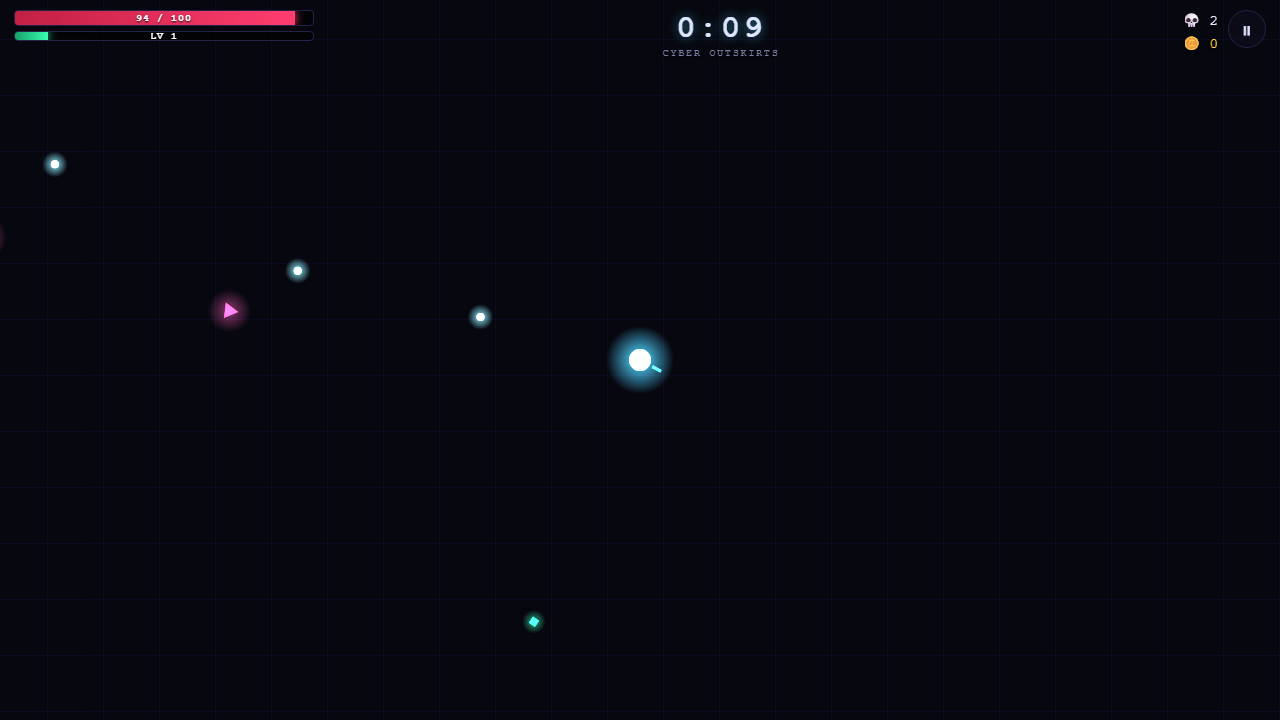
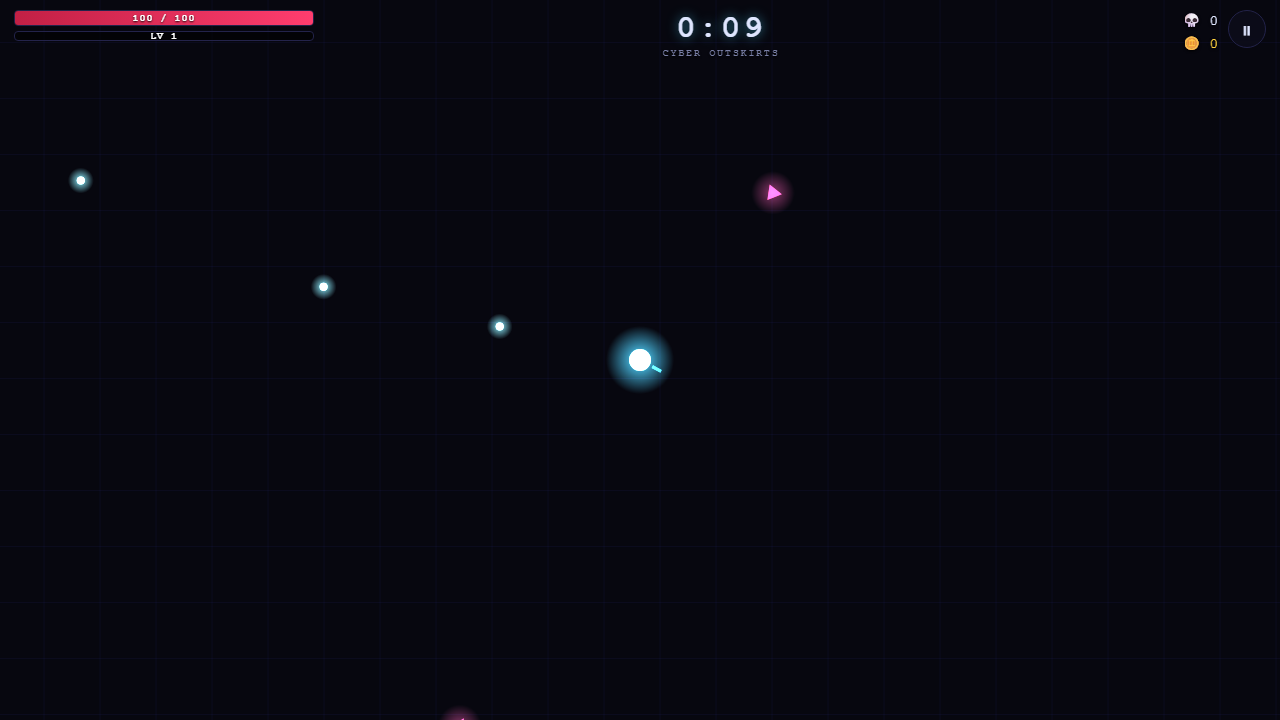
Make XP gems auto-magnet to the player like coins
Gems previously only pulled in once the player got within the magnet
radius; now, like coins, they home unconditionally from the moment
they drop. To keep the Gem Magnet upgrade meaningful, its stat now
scales *pull strength* instead of gating a range check -- a maxed
magnet build makes gems snap in almost instantly. Net effect: players
never have to detour for pickups, just dodge enemies while XP and
coins fly in on their own.

diff --git a/src/game/entities/gem.ts b/src/game/entities/gem.ts
@@ -1,6 +1,8 @@
-// XP gems and coins. Gems magnet toward the player inside the pickup radius
-// (governed by the Gem Magnet upgrade); coins always home straight to the
-// player from the moment they drop — no manual collection needed. Leveling
+// XP gems and coins both home straight to the player from the moment they
+// drop — no manual collection, just dodge enemies and let the rewards come
+// to you. Coins home at a fixed strength; gems scale with the player's
+// magnet stat, so the Gem Magnet upgrade still matters — it no longer just
+// extends pickup range, it makes gems fly in dramatically faster. Leveling
 // itself is resolved by the loop (it pauses the sim for the picker).
 
 import { sfx } from '../audio'
@@ -9,10 +11,12 @@ import { PALETTE } from '../config'
 import type { GameState } from '../types'
 
 const PICKUP_DIST = 18
-const MAGNET_ACCEL = 1400
 const GEM_CAP = 400
 const COIN_HOMING_ACCEL = 900
 const COIN_MIN_SPEED = 260
+// gem pull scales with the player's magnet stat (base 70 -> ~630 accel / ~180 min speed)
+const GEM_ACCEL_PER_MAGNET = 9
+const GEM_MIN_SPEED_PER_MAGNET = 2.6
 
 export function dropGem(state: GameState, x: number, y: number, value: number) {
   // merge into fewer, bigger gems if the field is saturated (perf guard)
@@ -60,22 +64,15 @@ export function updateGems(state: GameState, dt: number) {
     const nx = dx / dist
     const ny = dy / dist
 
-    if (g.isCoin) {
-      // coins always home to the player, regardless of range
-      g.vx += nx * COIN_HOMING_ACCEL * dt
-      g.vy += ny * COIN_HOMING_ACCEL * dt
-      const speed = Math.hypot(g.vx, g.vy)
-      if (speed < COIN_MIN_SPEED) {
-        g.vx = nx * COIN_MIN_SPEED
-        g.vy = ny * COIN_MIN_SPEED
-      }
-    } else if (dist < p.magnet) {
-      const pull = MAGNET_ACCEL * (1 - dist / p.magnet) + 200
-      g.vx += nx * pull * dt
-      g.vy += ny * pull * dt
-    } else {
-      g.vx *= 1 - 3 * dt
-      g.vy *= 1 - 3 * dt
+    // both gems and coins always home to the player, regardless of distance
+    const accel = g.isCoin ? COIN_HOMING_ACCEL : p.magnet * GEM_ACCEL_PER_MAGNET
+    const minSpeed = g.isCoin ? COIN_MIN_SPEED : p.magnet * GEM_MIN_SPEED_PER_MAGNET
+    g.vx += nx * accel * dt
+    g.vy += ny * accel * dt
+    const speed = Math.hypot(g.vx, g.vy)
+    if (speed < minSpeed) {
+      g.vx = nx * minSpeed
+      g.vy = ny * minSpeed
     }
     g.x += g.vx * dt
     g.y += g.vy * dt